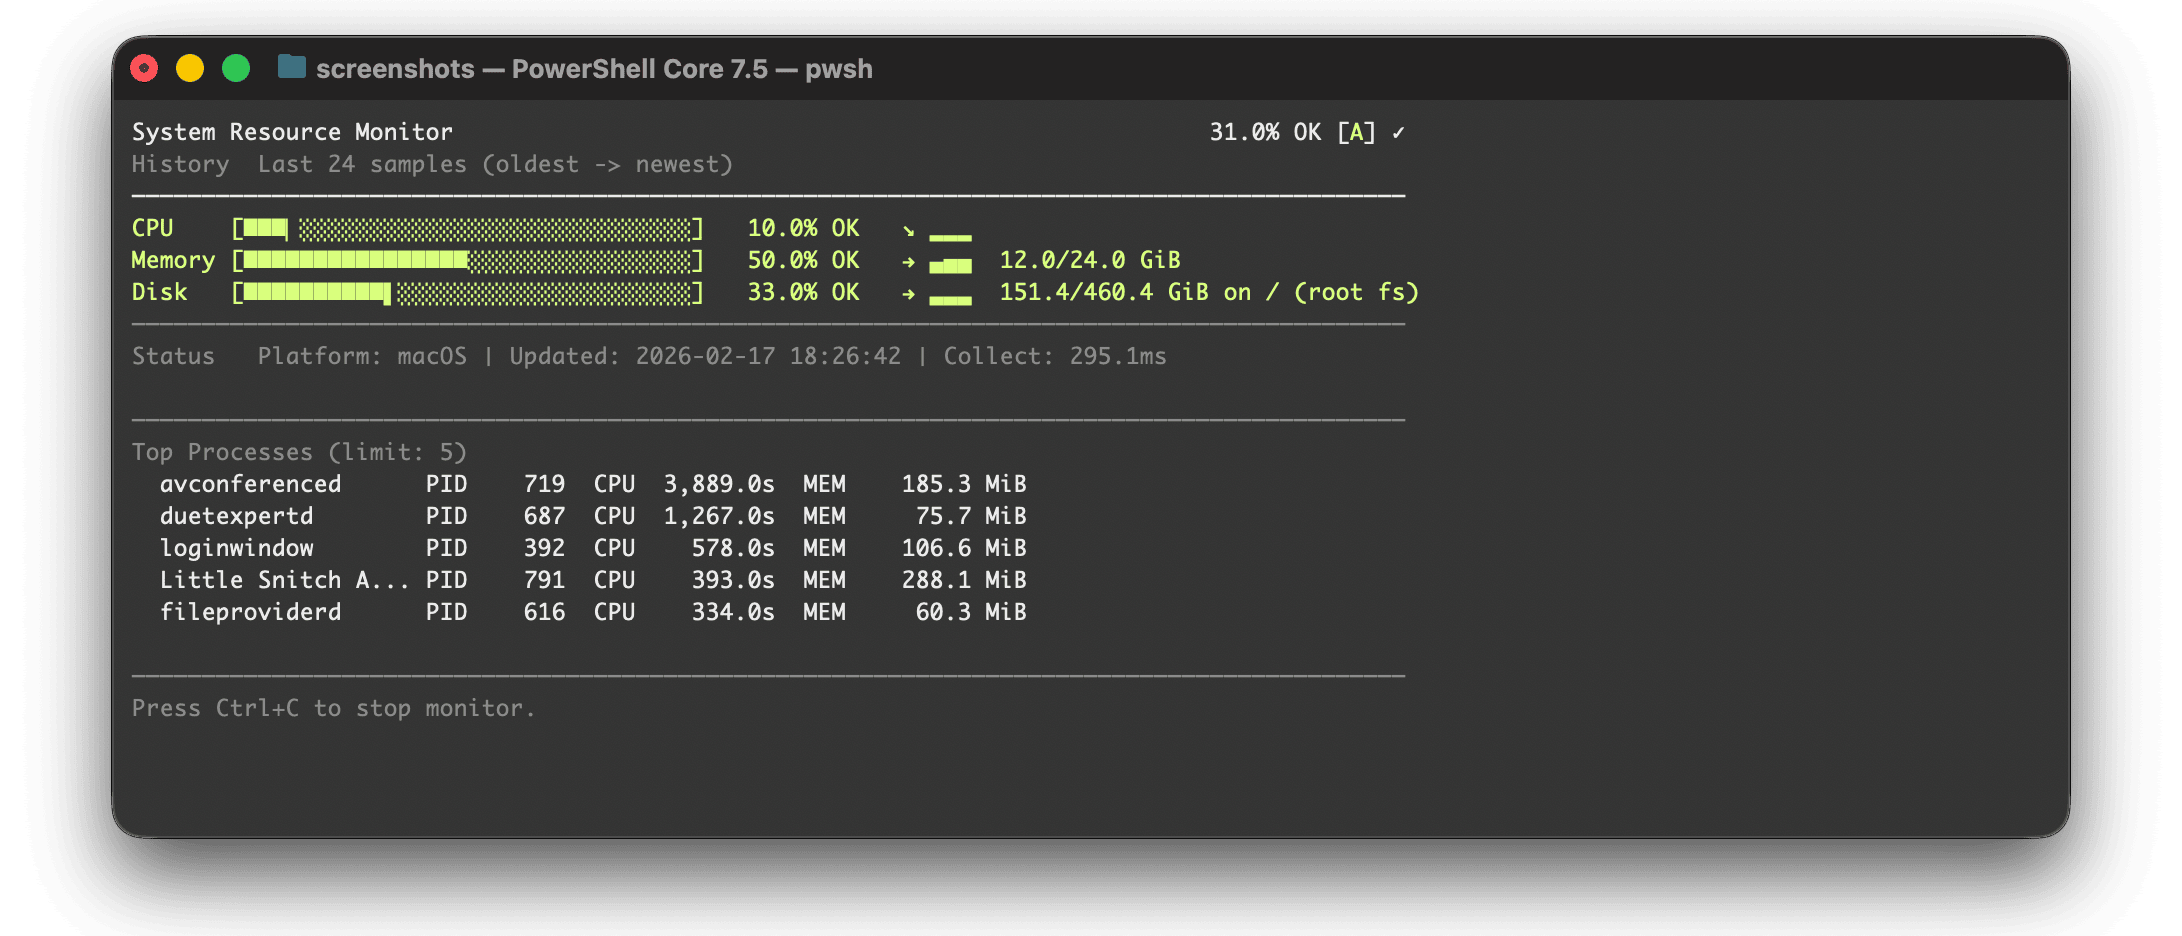
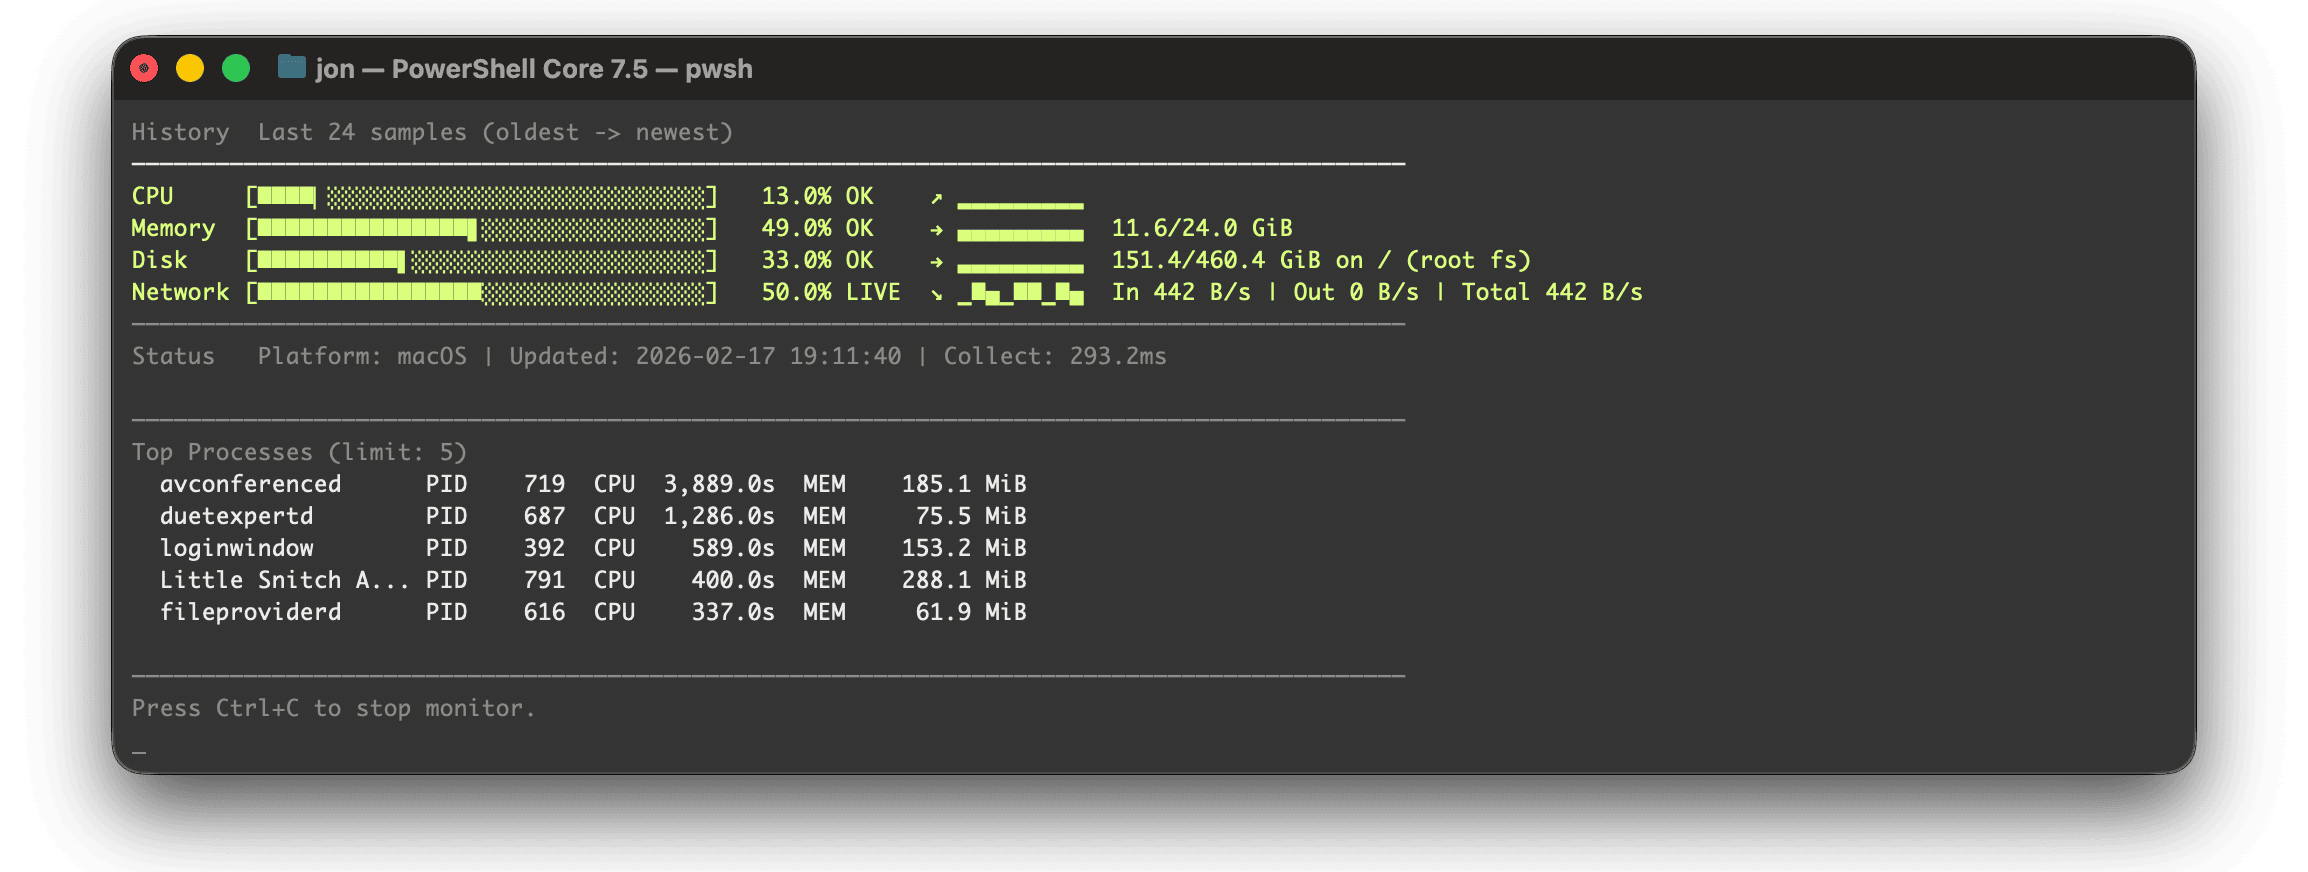
feat(Show-SystemResourceMonitor): add network activity monitoring

Changed region(s): [[0.0312, 0.031, 0.9661, 0.8979], [0.561, 0.1239, 0.6233, 0.1548]]

diff --git a/README.md b/README.md
@@ -27,7 +27,7 @@ Show-SystemResourceMonitor -Continuous -IncludeTopProcesses
 
 ![Show-SystemResourceMonitor screenshot](resources/screenshots/Show-SystemResourceMonitor.png "Show-SystemResourceMonitor in action")
 
-Displays a live system monitor for CPU, memory, and disk usage and the top processes by resource consumption.
+Displays a live system monitor for CPU, memory, disk, and network activity plus top processes by resource consumption.
 
 ---
 
@@ -482,7 +482,7 @@ The profile includes utility functions organized by category:
 
 - **[`Invoke-ElevatedCommand`](Functions/SystemAdministration/Invoke-ElevatedCommand.ps1)** — Executes commands with elevated privileges (Run as Administrator)
 - **[`Set-TlsSecurityProtocol`](Functions/SystemAdministration/Set-TlsSecurityProtocol.ps1)** — Configures TLS security protocol settings for secure network connections
-- **[`Show-SystemResourceMonitor`](Functions/SystemAdministration/Show-SystemResourceMonitor.ps1)** — Displays a visual monitor for CPU, memory, and disk usage
+- **[`Show-SystemResourceMonitor`](Functions/SystemAdministration/Show-SystemResourceMonitor.ps1)** — Displays a visual monitor for CPU, memory, disk, and network activity
 - **[`Start-KeepAlive`](Functions/SystemAdministration/Start-KeepAlive.ps1)** — Prevents the system and display from sleeping
 - **[`Test-Admin`](Functions/SystemAdministration/Test-Admin.ps1)** — Checks if the current PowerShell session is running as administrator/root/sudo
 - **[`Test-PendingReboot`](Functions/SystemAdministration/Test-PendingReboot.ps1)** — Checks if the system has pending reboot requirements
